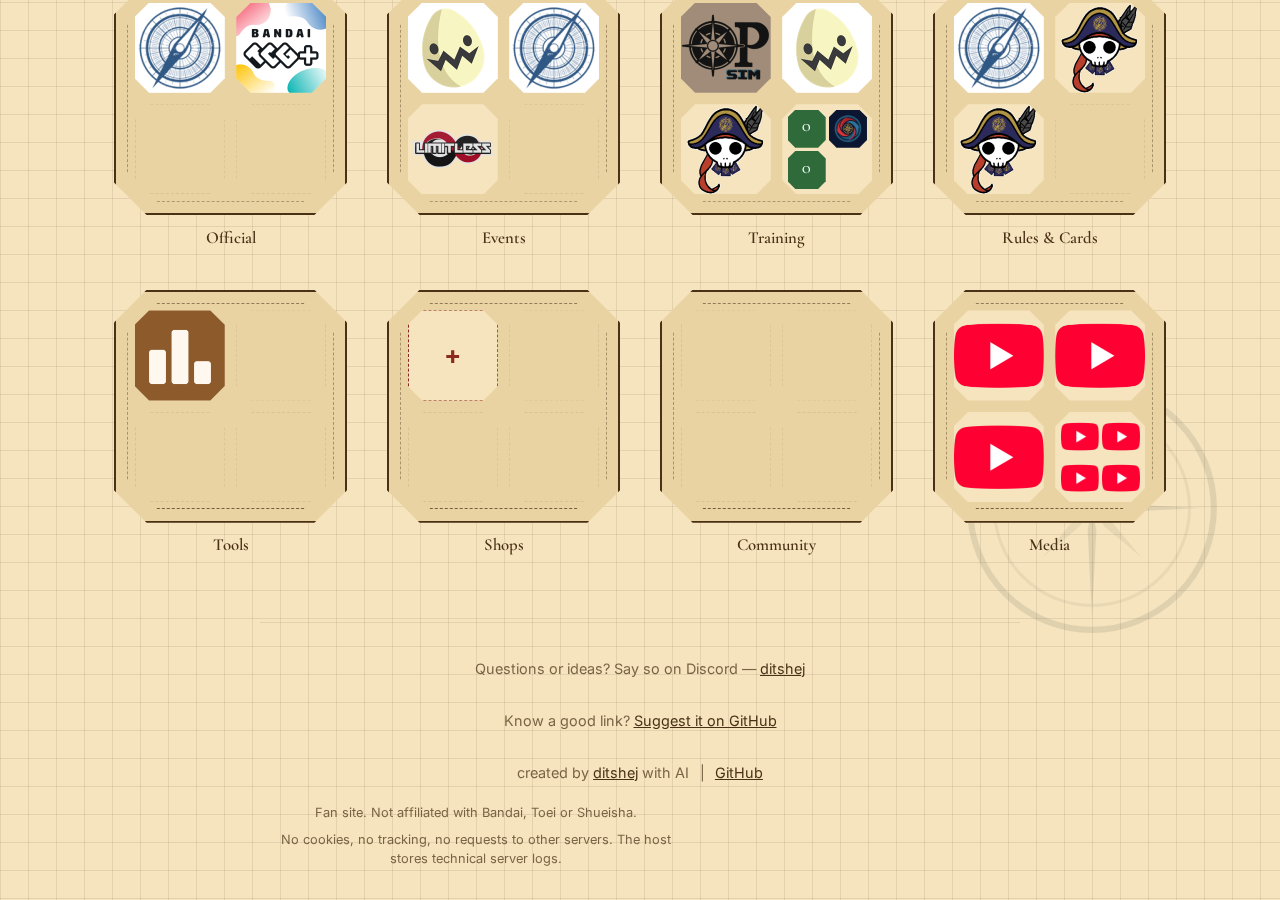
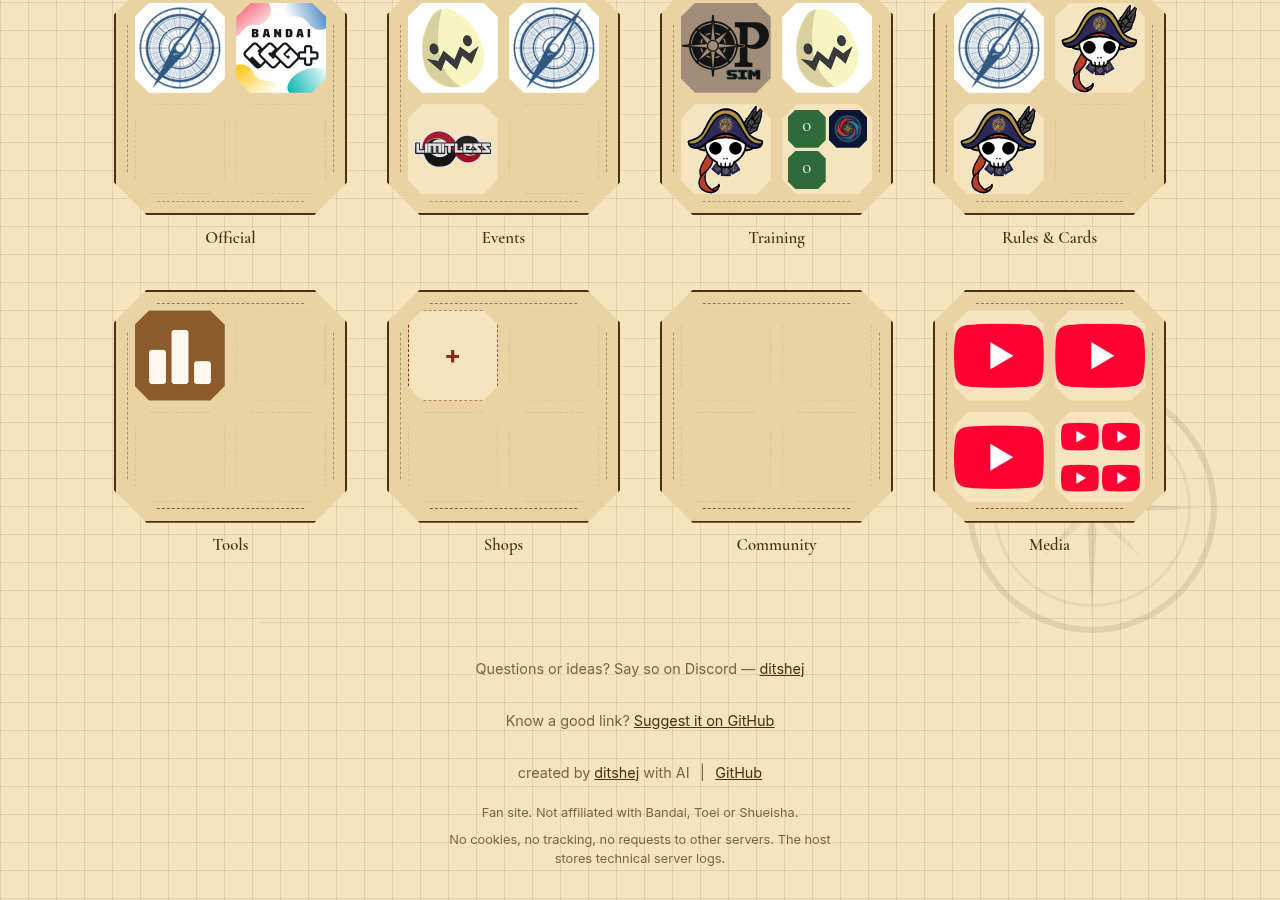
fix: center footer disclaimer and privacy lines
.site-footer p set margin-left/right: 0 with higher specificity than
the disclaimer/privacy margin-left/right: auto rule, so those two
lines were not centered. Scope the centering rule to .site-footer so
it wins, and use margin-inline for the shorthand.

diff --git a/public/css/style.css b/public/css/style.css
@@ -522,12 +522,11 @@ a {
   margin: 0 0.4rem;
 }
 
-.footer-disclaimer,
-.footer-privacy {
+.site-footer .footer-disclaimer,
+.site-footer .footer-privacy {
   font-size: 0.8rem;
   max-width: 50ch;
-  margin-left: auto;
-  margin-right: auto;
+  margin-inline: auto;
 }
 
 /* Folder overlay (dialog), design B sea chart (plan.md sections 6 and 9) */
